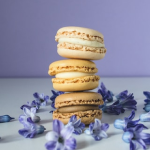
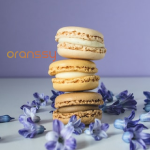
230303
이미지 수정

Changed region(s): [[0.0267, 0.32, 0.3733, 0.4267]]

diff --git a/Exam/infoProcessF_written.html b/Exam/infoProcessF_written.html
@@ -4,7 +4,7 @@
     <meta charset="UTF-8">
     <meta http-equiv="X-UA-Compatible" content="IE=edge">
     <meta name="viewport" content="width=device-width, initial-scale=1.0">
-    <title>필기 기출 개념정리 _웹 디자인 기능사 | oranssy</title>
+    <title>필기 기출 개념정리 _웹 디자인 기능사 | 코딩 혜윰</title>
 
     <!-- meta tags -->
     <meta name="Generator" content="Visual Studio Code">
@@ -17,7 +17,7 @@
     <!-- Open Graph -->
     <meta property="og:title" content="필기 기출 개념정리 _웹 디자인 기능사 | oranssy">
     <meta property="og:type" content="reference">
-    <meta property="og:image" content="https://oranssy.github.io/codingClass/img/basic/cat_oran__1080.jpg">
+    <meta property="og:image" content="https://oranssy.github.io/codingClass/img/basic/img_oran_1080.png">
     <meta property="og:description" content="코딩 _시험공부 자료입니다.">
     <meta property="og:url" content="https://oranssy.github.io/codingStudy/Exam/webDesign_written.html">
 

diff --git a/Exam/webDesign_written.html b/Exam/webDesign_written.html
@@ -4,7 +4,7 @@
     <meta charset="UTF-8">
     <meta http-equiv="X-UA-Compatible" content="IE=edge">
     <meta name="viewport" content="width=device-width, initial-scale=1.0">
-    <title>필기 기출 개념정리 _웹 디자인 기능사 | oranssy</title>
+    <title>필기 기출 개념정리 _웹 디자인 기능사 | 코딩 혜윰</title>
 
     <!-- meta tags -->
     <meta name="Generator" content="Visual Studio Code">
@@ -17,7 +17,7 @@
     <!-- Open Graph -->
     <meta property="og:title" content="필기 기출 개념정리 _웹 디자인 기능사 | oranssy">
     <meta property="og:type" content="reference">
-    <meta property="og:image" content="https://oranssy.github.io/codingClass/img/basic/cat_oran__1080.jpg">
+    <meta property="og:image" content="https://oranssy.github.io/codingClass/img/basic/img_oran_1080.png">
     <meta property="og:description" content="코딩 _시험공부 자료입니다.">
     <meta property="og:url" content="https://oranssy.github.io/codingStudy/Exam/webDesign_written.html">
 
